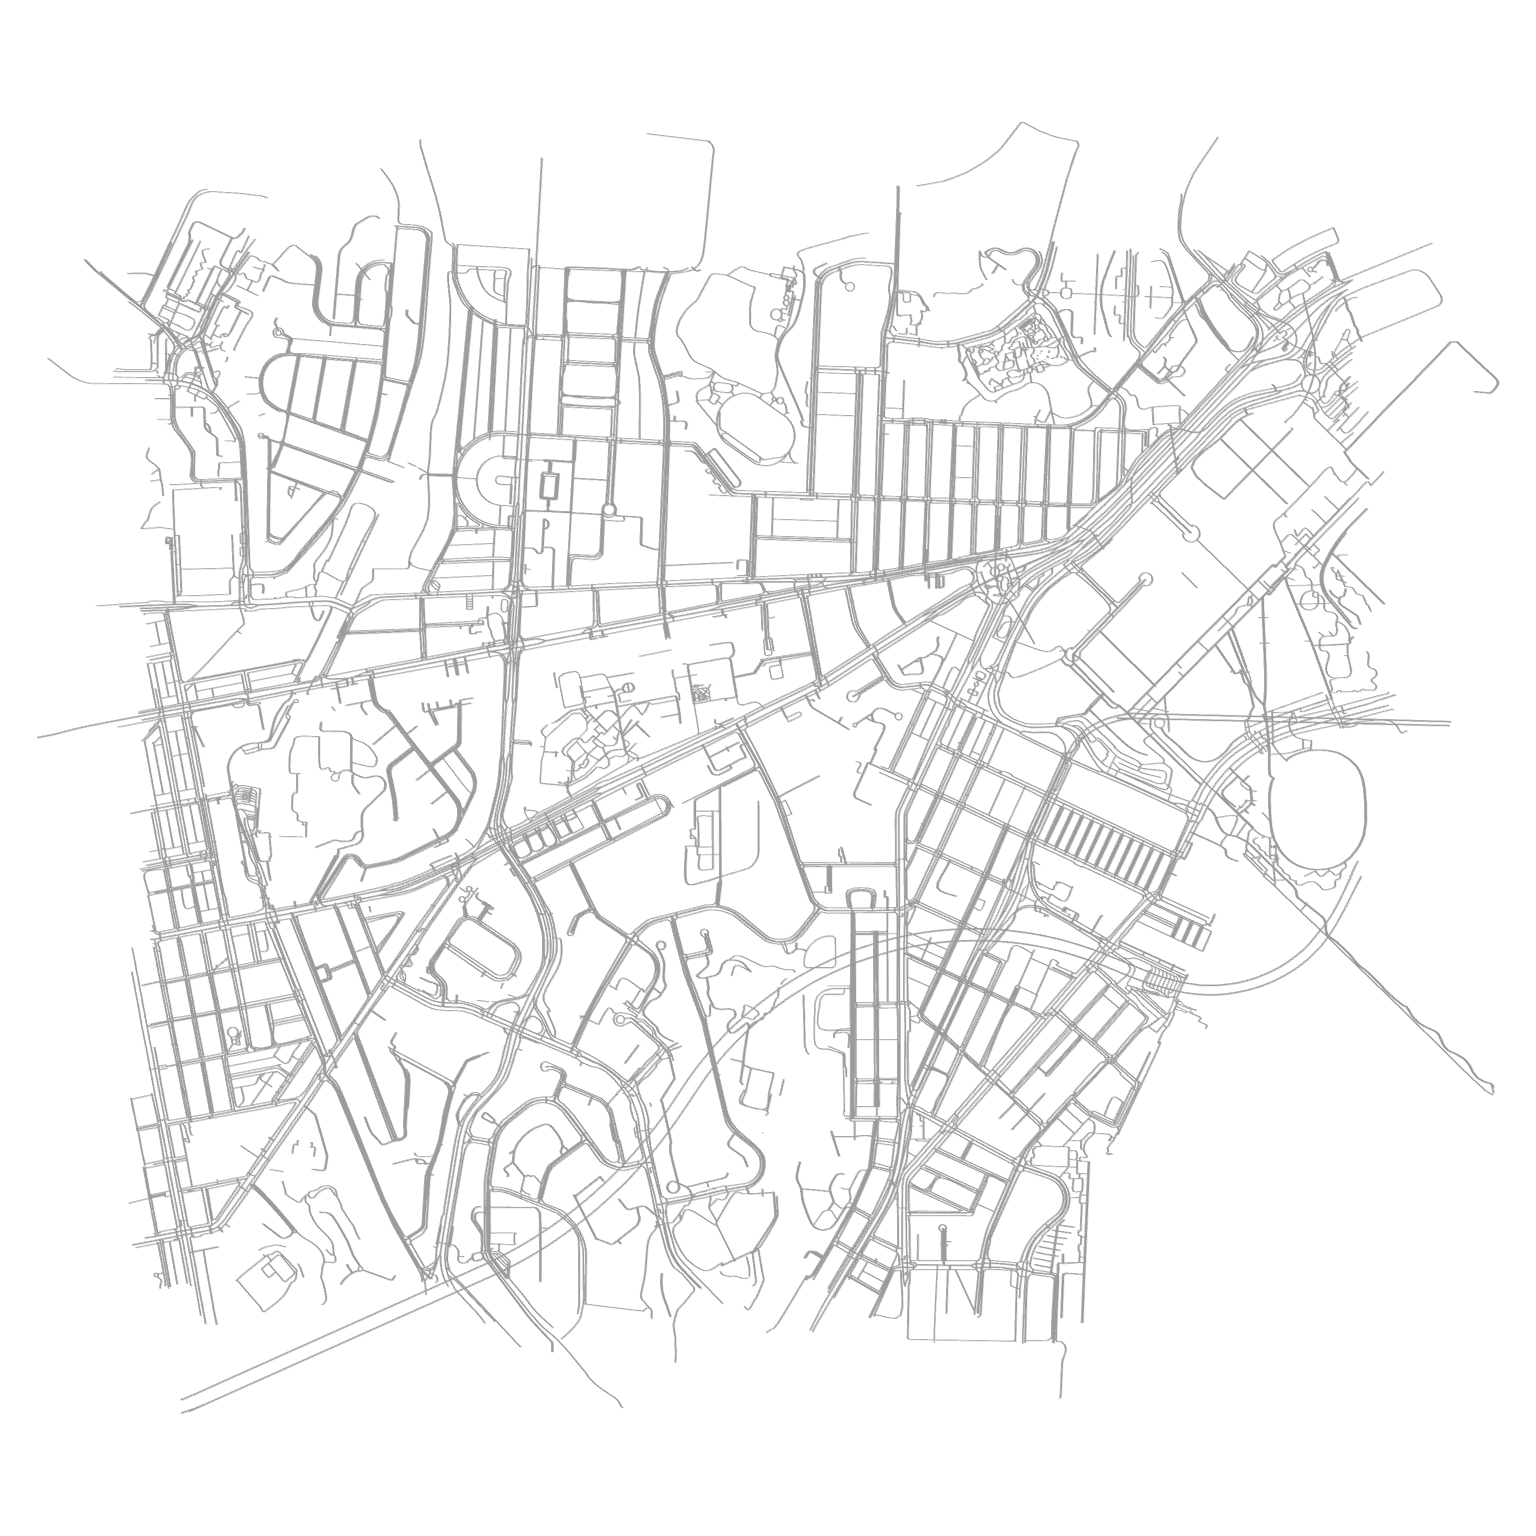
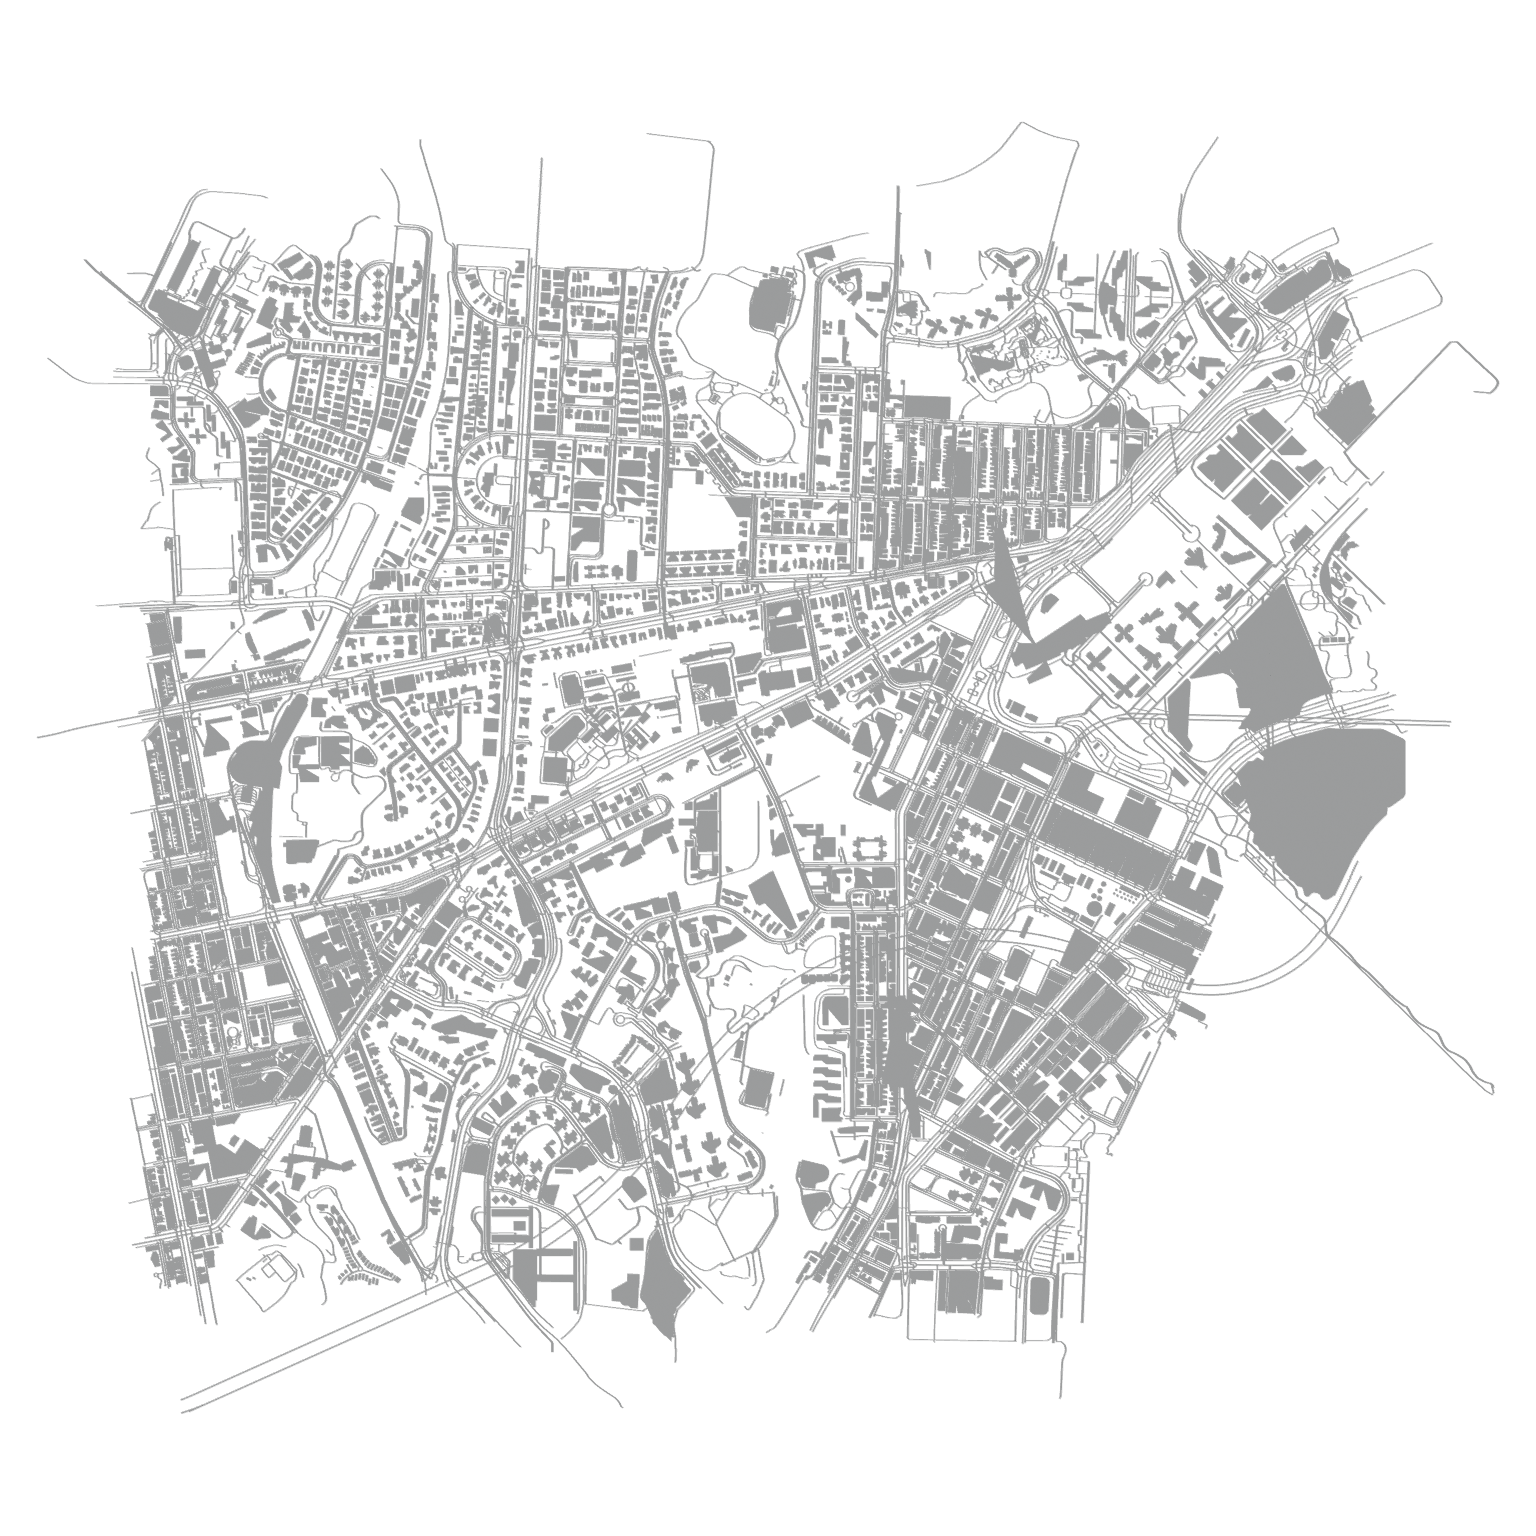
Rebuild all 13 maps with OSM buildings and refresh previews
- Regenerate all 13 HD maps with extruded OSM building meshes
  (26,274 buildings total; 4BUILDINGS layer)
- Convert to KN5 and install to AC (11-94 MB per track)
- Re-render map.png previews showing buildings
- Gitignore build preview renders (regenerable)
- Document buildings + 22 traffic cars in README

All 13 KN5 verified valid (sc6969 v6).

Changed region(s): [[0.0938, 0.1562, 0.9375, 0.875]]

diff --git a/README.md b/README.md
@@ -439,6 +439,39 @@ Copy-Item "apps\lua\hk_exam\*" "A:\SteamLibrary\steamapps\common\assettocorsa\ap
 3. 設定交通密度（Traffic mode 預設最多 1,500 部）
 4. 開始後，車輛會沿試場 traffic lanes 行駛；已閉合路段會循環，開放路段會由 CSP graph 入口/出口管理
 
+### 交通車輛 / Traffic Cars
+
+CSP Traffic mode 而家可以用 22 款真實香港交通車（config/traffic_cars.json 登記）：
+
+- 私家車：Toyota Camry/Alphard/Celica、Honda Jazz、Mercedes A45、Nissan GT-R、Porsche Macan、Tesla Model 3、VW Golf R 等
+- 的士/小巴/巴士：Crown Comfort、Prius Taxi、Coaster、Volvo Olympian、機場巴士
+- 貨車：Isuzu Giga/NPR、Mule Truck、F&F Truck
+- 電單車：GSXR-1000
+
+執行 python tools/install_traffic_cars.py 將 LOD C 模型複製入 CSP Traffic Tool data/ 並生成 CarDefinition JSON。
+
+### 建築物 / Buildings
+
+各試場已加入 OSM 建築物立體模型（	ools/fetch_buildings.py 下載、generate_hd_map.py 擠出）：
+
+| 試場 | 建築物 |
+|---|---:|
+| 天光道 | 4,480 |
+| 忠義街 | 4,147 |
+| 培正道 | 3,871 |
+| 德士古道 | 3,706 |
+| 永孝街 | 1,954 |
+| 跑馬地 | 1,805 |
+| 掃桿埔 | 1,773 |
+| 石蔭 | 1,522 |
+| 沙田 | 1,047 |
+| 油塘 | 647 |
+| 鴨脷洲 | 611 |
+| 常安街 | 455 |
+| 元朗 | 256 |
+
+合共 **26,274** 個建築物。
+
 ### 重建交通配置 / Regenerate
 ```powershell
 python tools/generate_traffic_json.py
